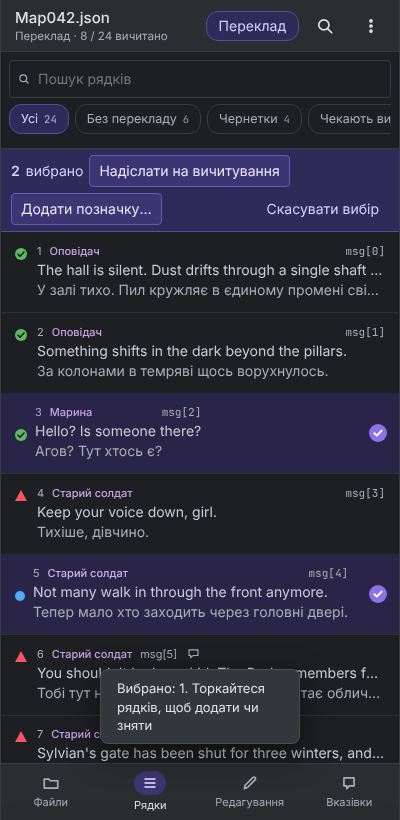
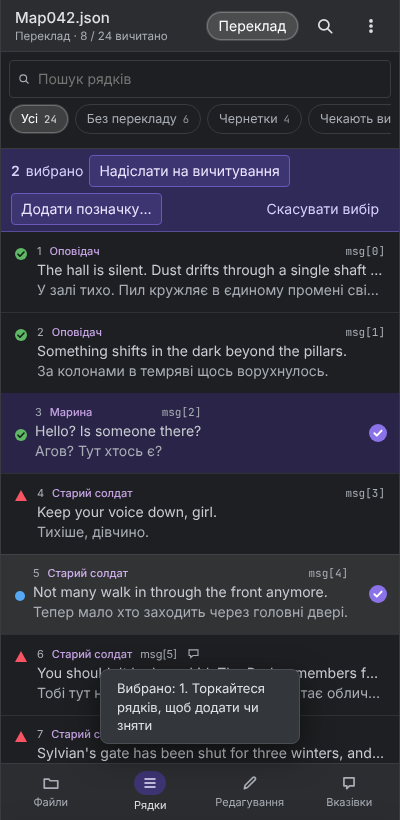
Unify highlight and bubble styles via shared tokens
Claude-Session: https://claude.ai/code/session_01CC8rBQZdveFkpkVWpQFuUu

Changed region(s): [[0.51, 0.0, 0.75, 0.061], [0.0, 0.122, 0.18, 0.1829]]

diff --git a/mockup/workspace.html b/mockup/workspace.html
@@ -670,6 +670,18 @@ td .term{color:#d9c3ee}
 .tab,.tab.on{box-shadow:none}
 .tab.on{background:rgba(255,255,255,.1);border-bottom-color:rgba(255,255,255,.55)}
 .menubar button:focus{outline:0}.menubar button:focus-visible{box-shadow:inset 0 0 0 1px rgba(255,255,255,.35)}
+/* ===== unified highlight system =====
+   controls (buttons, tabs, chips, pills): hover = soft glass, active = brighter glass + ring
+   list items (rows, tree, menus, results): hover = soft glass, selected = violet */
+:root{--hv:rgba(255,255,255,.09);--on-bg:rgba(255,255,255,.15);--on-ring:rgba(255,255,255,.24);--r-ctl:8px}
+.tb-ic:hover,.ib:hover,.wc button:hover,.menubar button:hover,.strip button:hover,.seg button:hover,.tab:hover:not(.on),.chip:hover,.tpill:hover,.node:hover,.si:hover,.tgrow:hover,.gr:hover,.pop button:hover,.sbtn:hover,.tab .x:hover{background:var(--hv)}
+.menubar button.on,.strip button.on,.seg button.on,.seg button.on[data-m=proof],.stagebar .seg button.on,.chip.on,.tpill[aria-expanded=true]{background:var(--on-bg);box-shadow:inset 0 0 0 1px var(--on-ring);color:#fff;border-color:transparent}
+.tab.on{background:var(--on-bg);box-shadow:none;border-bottom-color:rgba(255,255,255,.55)}
+.mi:hover,.mi.open,.mi:focus,.sd-it:hover,.sd-it.on{background:var(--sel)}
+.tb-ic,.ib,.wc button,.menubar button,.strip button,.seg button,.pop button{border-radius:var(--r-ctl)}
+.chip,.tpill{border-radius:999px}
+.tpill{border-color:rgba(255,255,255,.16)}
+.chip.on{border:1px solid transparent}
 </style>
 <div class="narrow" id="narrow" hidden><span>Вікно вужче за 1180 px: частину інтерфейсу доведеться прокручувати. Для телефона відкрийте мобільну версію.</span><button id="narrow-x" aria-label="Закрити повідомлення">✕</button></div>
 <div class="scroll-x"><div class="ide mode-table">

diff --git a/mockup/mobile.html b/mockup/mobile.html
@@ -670,6 +670,18 @@ td .term{color:#d9c3ee}
 .tab,.tab.on{box-shadow:none}
 .tab.on{background:rgba(255,255,255,.1);border-bottom-color:rgba(255,255,255,.55)}
 .menubar button:focus{outline:0}.menubar button:focus-visible{box-shadow:inset 0 0 0 1px rgba(255,255,255,.35)}
+/* ===== unified highlight system =====
+   controls (buttons, tabs, chips, pills): hover = soft glass, active = brighter glass + ring
+   list items (rows, tree, menus, results): hover = soft glass, selected = violet */
+:root{--hv:rgba(255,255,255,.09);--on-bg:rgba(255,255,255,.15);--on-ring:rgba(255,255,255,.24);--r-ctl:8px}
+.tb-ic:hover,.ib:hover,.wc button:hover,.menubar button:hover,.strip button:hover,.seg button:hover,.tab:hover:not(.on),.chip:hover,.tpill:hover,.node:hover,.si:hover,.tgrow:hover,.gr:hover,.pop button:hover,.sbtn:hover,.tab .x:hover{background:var(--hv)}
+.menubar button.on,.strip button.on,.seg button.on,.seg button.on[data-m=proof],.stagebar .seg button.on,.chip.on,.tpill[aria-expanded=true]{background:var(--on-bg);box-shadow:inset 0 0 0 1px var(--on-ring);color:#fff;border-color:transparent}
+.tab.on{background:var(--on-bg);box-shadow:none;border-bottom-color:rgba(255,255,255,.55)}
+.mi:hover,.mi.open,.mi:focus,.sd-it:hover,.sd-it.on{background:var(--sel)}
+.tb-ic,.ib,.wc button,.menubar button,.strip button,.seg button,.pop button{border-radius:var(--r-ctl)}
+.chip,.tpill{border-radius:999px}
+.tpill{border-color:rgba(255,255,255,.16)}
+.chip.on{border:1px solid transparent}
 
 /* ===== mobile build: always the phone layout, in a phone-width frame on wide screens ===== */
 html{background:#121315}
